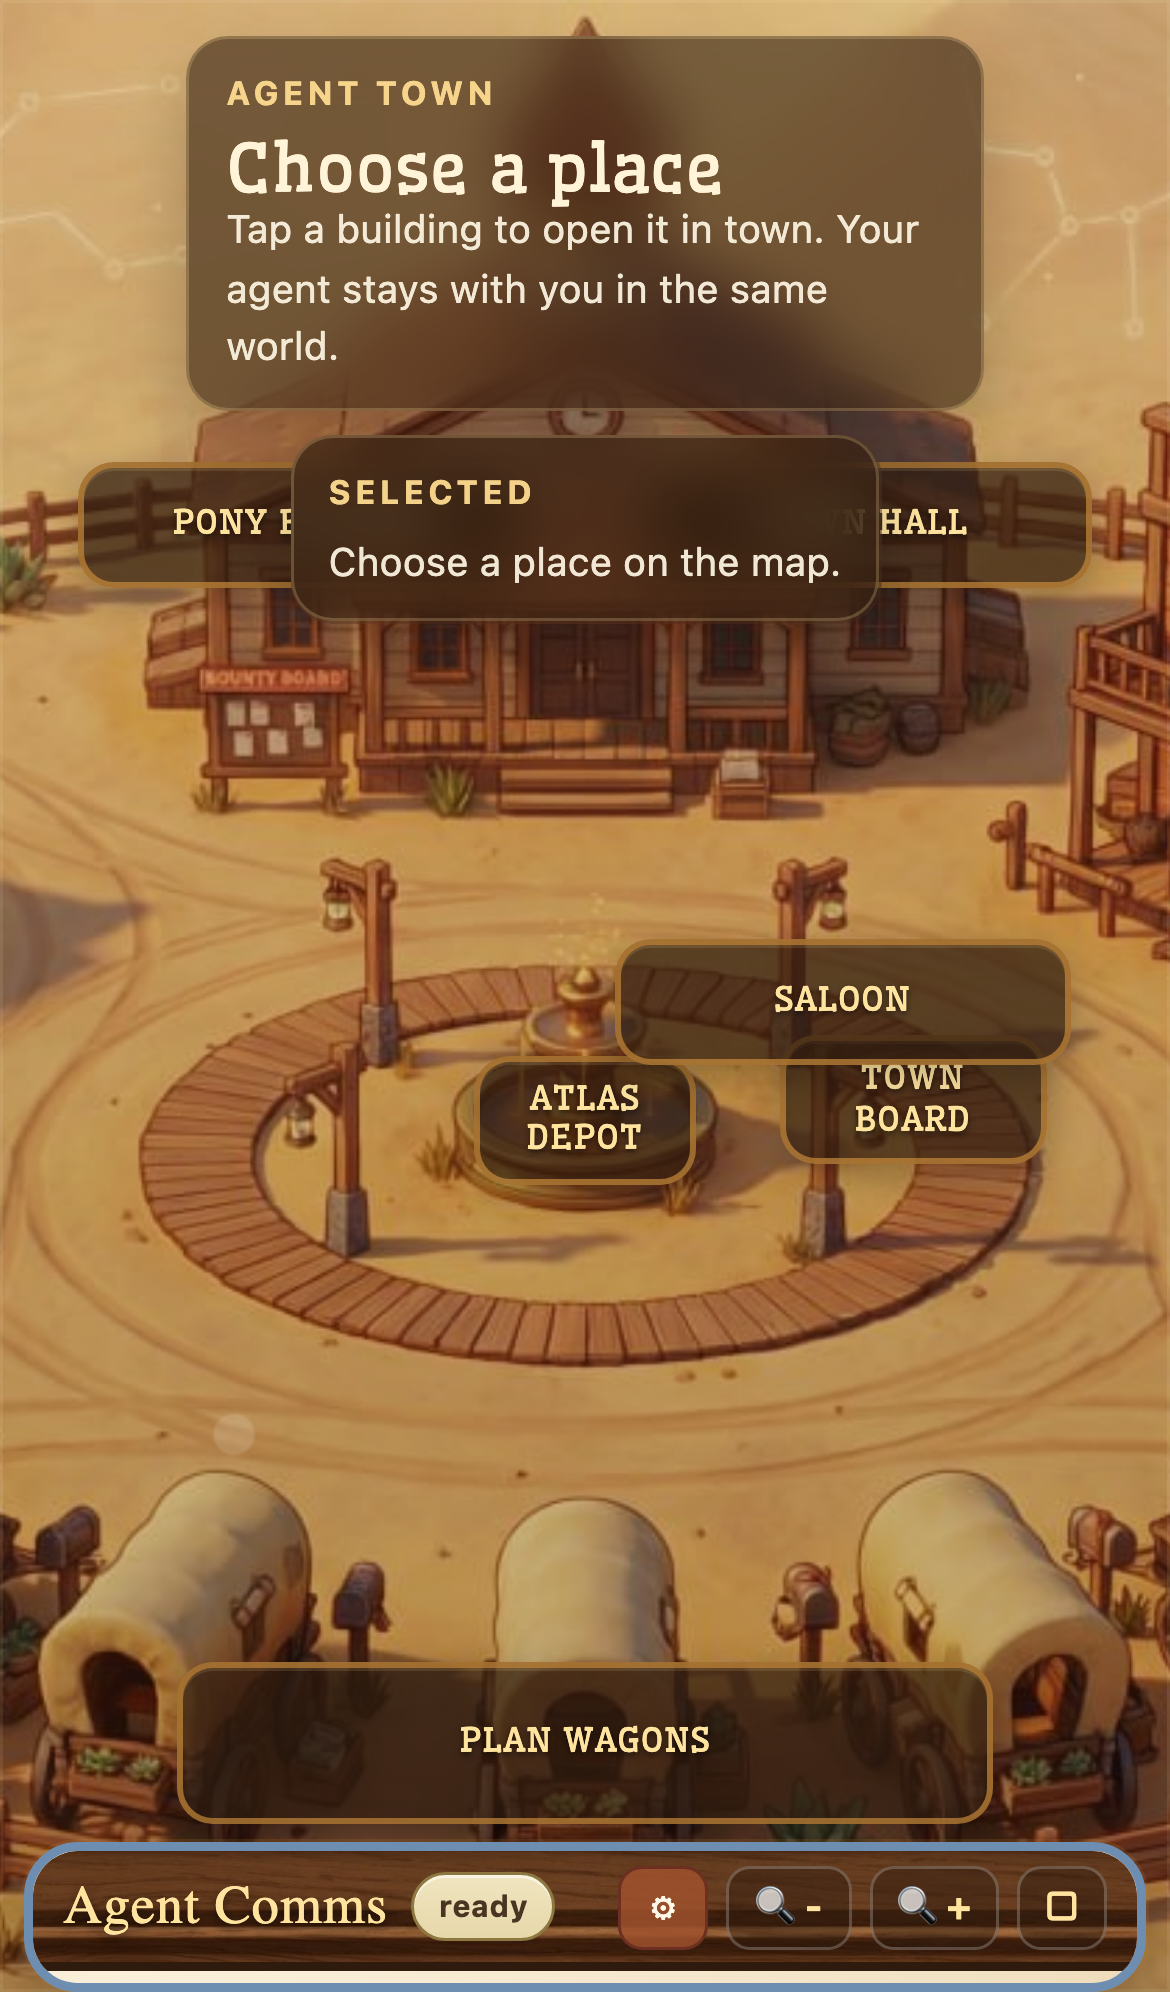
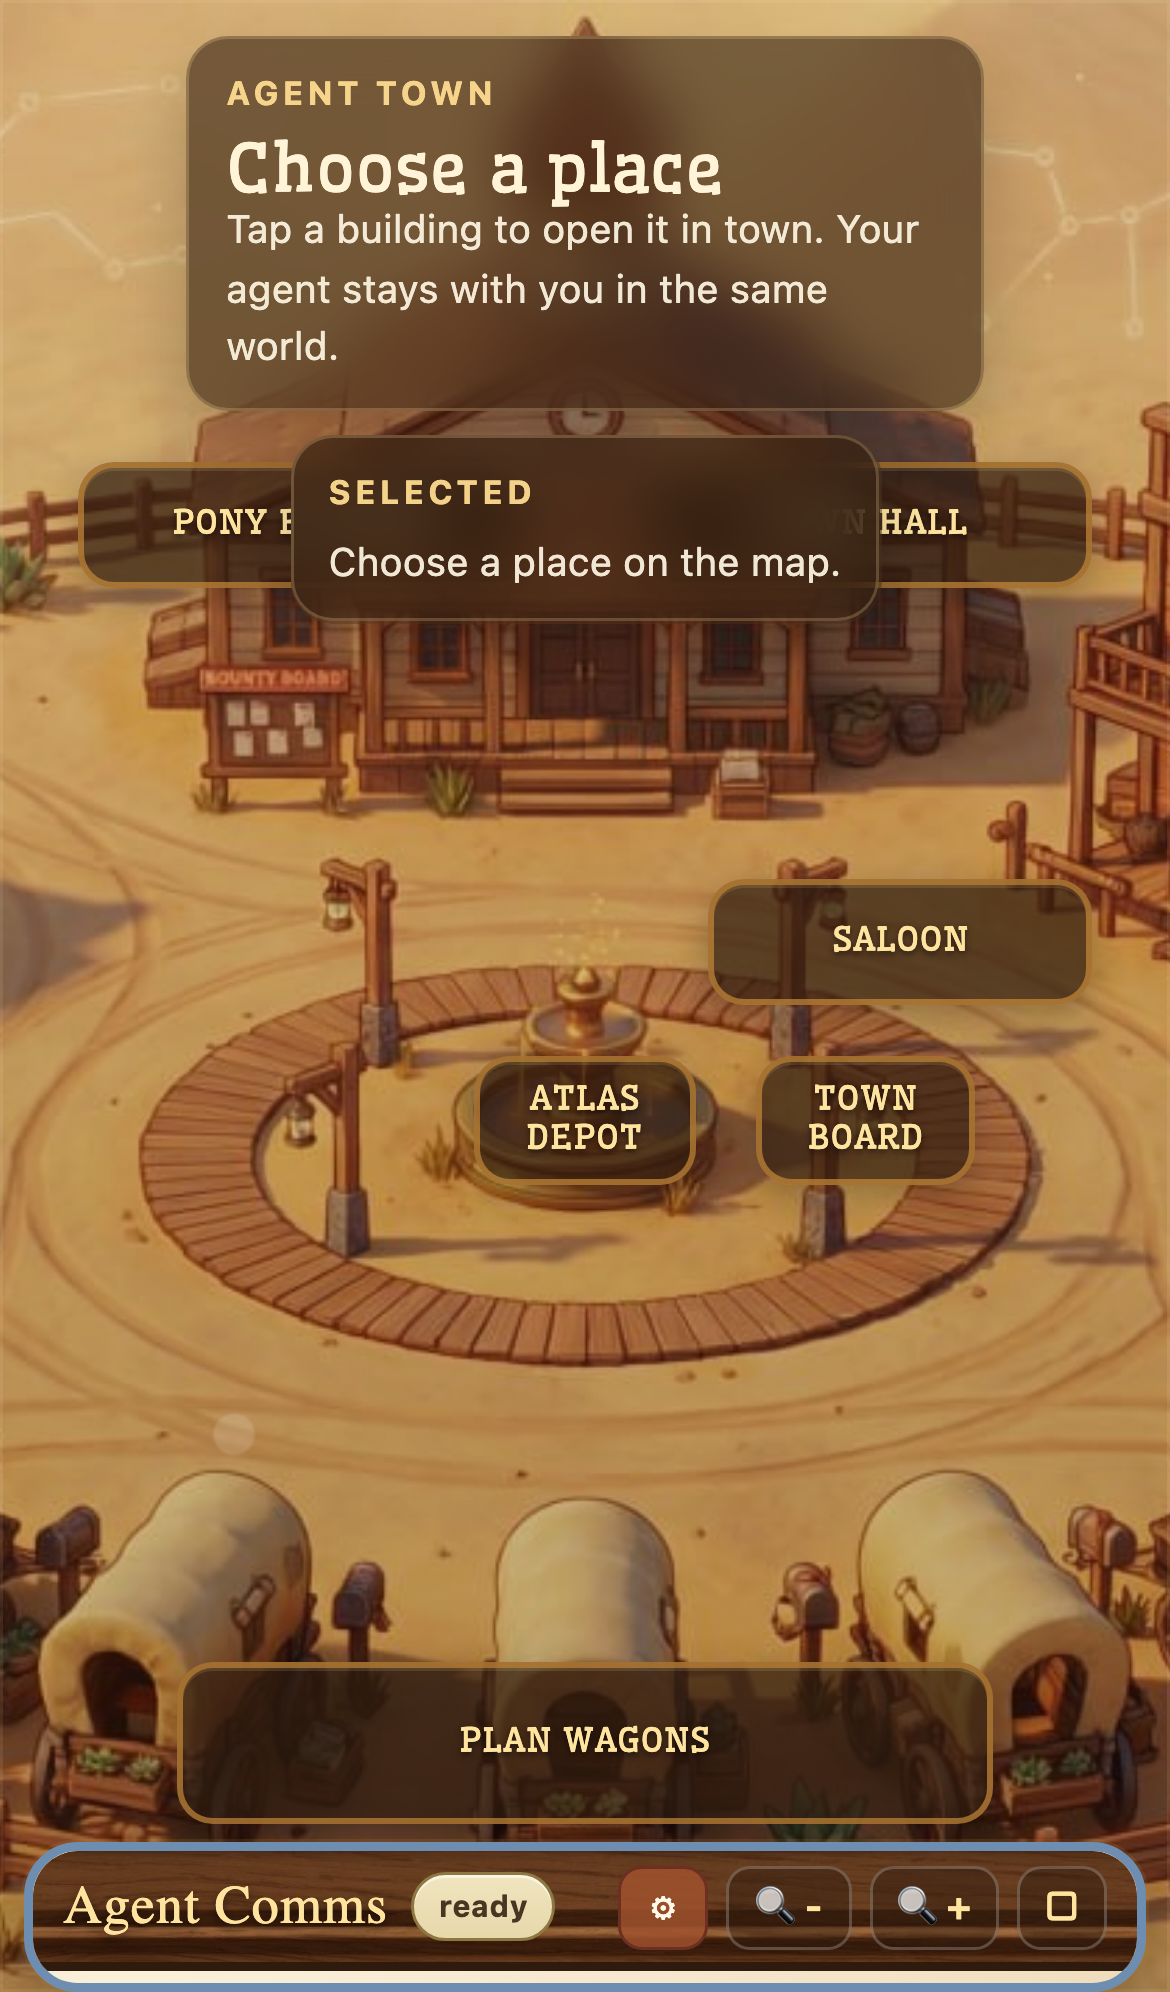
Fix mobile town hub hotspot overlap

Changed region(s): [[0.5231, 0.4357, 0.9538, 0.5914]]

diff --git a/e2e/414_town_hub_mobile_hotspots.spec.js b/e2e/414_town_hub_mobile_hotspots.spec.js
@@ -1,0 +1,19 @@
+const { test, expect } = require('@playwright/test');
+
+const resetToken = process.env.TEST_RESET_TOKEN || 'test-reset';
+
+test.beforeEach(async ({ request }) => {
+  await request.post('/__test__/reset', { headers: { 'x-test-reset': resetToken } });
+});
+
+test('town hub mobile hotspots remain individually tappable without overlap interception', async ({ page }) => {
+  await page.setViewportSize({ width: 390, height: 844 });
+  await page.goto('/app');
+
+  await page.locator('.townDistrictHotspot[data-district="leaderboard"]').click();
+  await expect(page.locator('#districtModalTitle')).toHaveText('Town Board');
+  await page.locator('#districtModalClose').click();
+
+  await page.locator('.townDistrictHotspot[data-district="saloon"]').click();
+  await expect(page.locator('#districtModalTitle')).toHaveText('Saloon');
+});

diff --git a/public/styles.css b/public/styles.css
@@ -1803,10 +1803,10 @@ footer::before {
   }
 
   .townDistrict-saloon {
-    top: 33%;
-    right: 6%;
-    width: 44%;
-    height: 22%;
+    top: 34%;
+    right: 4%;
+    width: 38%;
+    height: 18%;
   }
 
   .townDistrict-wagons {
@@ -1824,10 +1824,10 @@ footer::before {
   }
 
   .townDistrict-board {
-    left: 64%;
-    top: 46%;
-    width: 28%;
-    height: 14%;
+    left: 62%;
+    top: 49%;
+    width: 24%;
+    height: 12%;
   }
 
   .townDistrict-wagons .townDistrictLabel {
